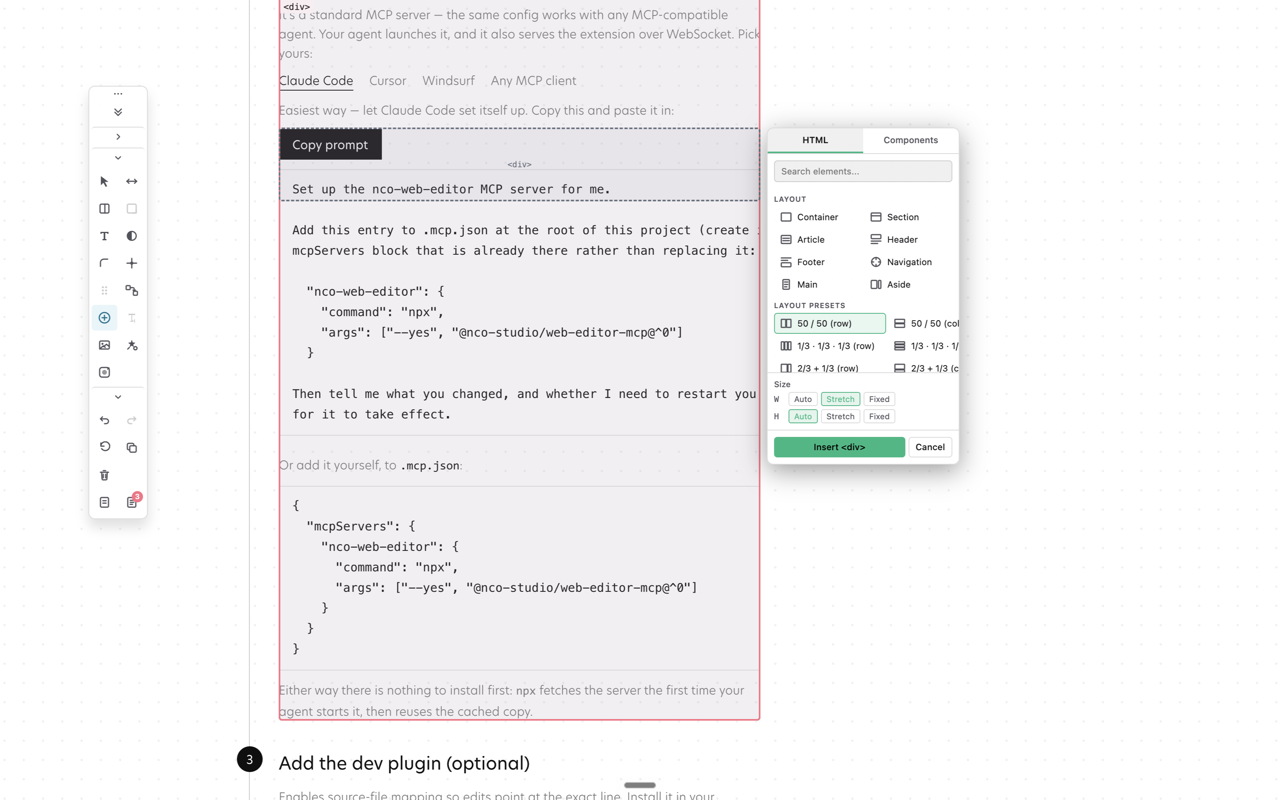
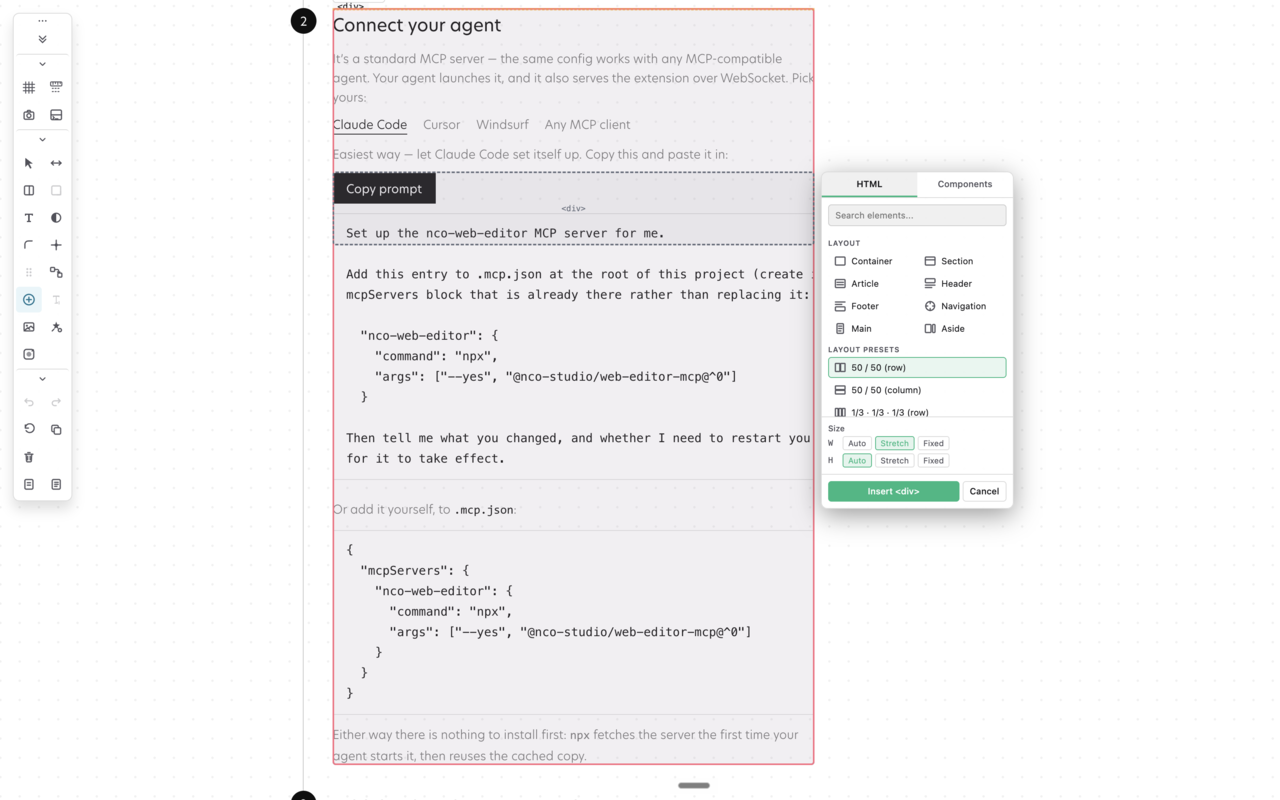
Re-capture the insert-panel screenshot against the fixed build
The old capture showed the two-column preset grid, where the ellipsis ate the
row/column suffix and both variants of a ratio read identically - the defect
fixed in 79e0d58. Anyone reading the listing would have seen it as a
rendering fault. The replacement shows the single-column list with
50 / 50 (row), 50 / 50 (column) and 1/3 . 1/3 . 1/3 (row) all in full.

The crop also changes from centred to left-anchored. The toolbar sits further
left in this capture than in the earlier three, and a centred crop takes about
134px off each side - enough to slice it off. Anchoring left keeps the toolbar
and the panel, because the surplus width is always on the right where the
canvas is empty. README records that, and switches the documented command from
sips to magick, which can do an offset crop at all.

EXIF is stripped on the way through, which the earlier three did not do.

diff --git a/docs/store-assets/README.md b/docs/store-assets/README.md
@@ -9,22 +9,22 @@ Screenshots for the store listing. Chrome requires each to be **exactly
 | `02-inline-text.png` | Inline text editing, with the formatting bar |
 | `03-insert-elements.png` | The insert panel, choosing a layout to add |
 
-Generated from 3456×1994 captures by cropping to a 1.6 ratio from the centre
-(~7.7% of width) and scaling to 1280×800. The source captures are 1.733, so
-they cannot be scaled to spec without a crop; a centre crop is safe because
-the toolbar sits ~10% in from the left and the right side is open canvas.
+Generated from 3456×1992 captures. Retina captures are ~1.733, the store wants
+1.600, so a crop is unavoidable — about 7.7% of the width.
+
+**Crop from the left, not the centre.** Where the toolbar sits varies between
+captures, and a centred crop removes ~134px from each side, which is enough to
+slice the toolbar off when it is close to the left edge. A left-anchored crop
+keeps it, because the surplus is always on the right where the canvas is empty.
 
 To regenerate from a new capture:
 
-    h=$(sips -g pixelHeight shot.png | awk '/pixelHeight/{print $2}')
-    cw=$(python3 -c "print(round($h*1.6))")
-    sips -c $h $cw shot.png && sips -z 800 1280 shot.png
+    magick shot.png -crop 3187x1992+0+0 +repage -resize 1280x800 -strip out.png
 
-Known issue in `03-insert-elements.png`: the insert panel's layout-preset grid
-is clipped at the panel's own right edge ("50 / 50 (col", "2/3 + 1/3 (c").
-That is in the source capture, not the crop — the panel's content is wider
-than the panel. Worth fixing in the overlay and re-capturing before this
-screenshot is relied on.
+(`3187 = round(height × 1.6)` — recompute if the capture height differs.
+`-strip` drops EXIF, which a screenshot does not need and should not publish.)
+Open the result and check the toolbar and any open panel both survived before
+trusting it.
 
 ## Still needed
 
